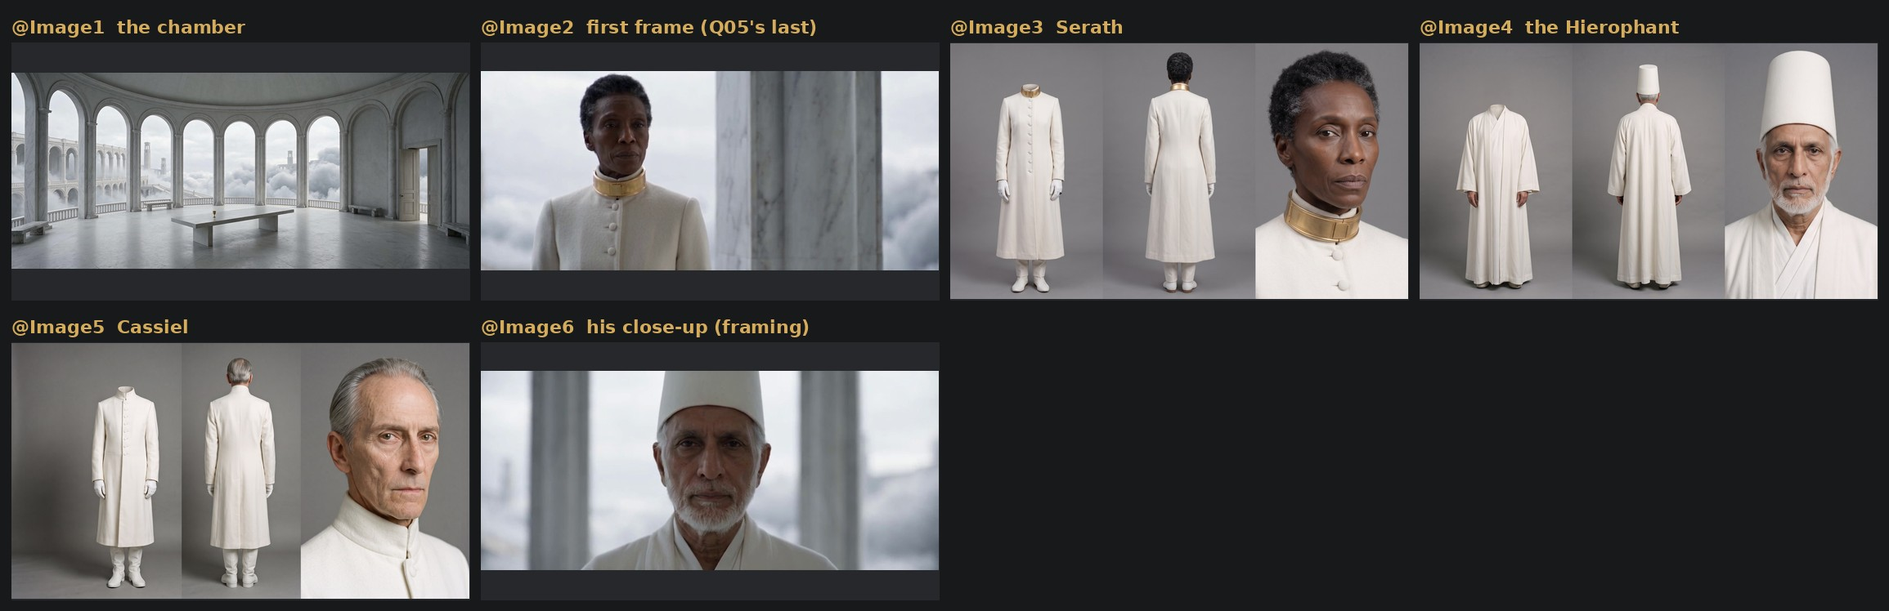
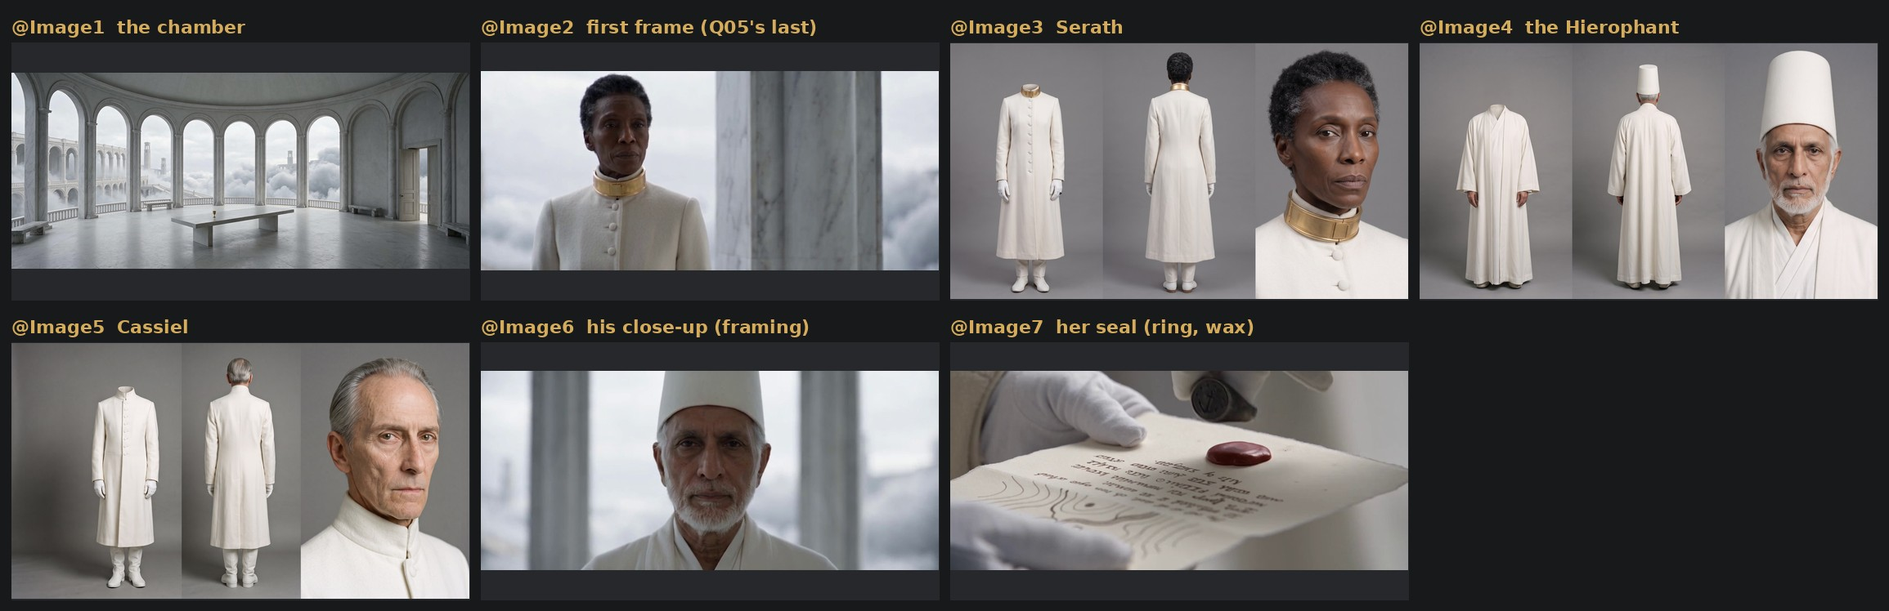
The Weight of Heaven: Q06 settled to fit what has been generated
The author's word on the two open choices: "Do what fit what have been
generated". The Hierophant says "Remember who raised you" facing forward, as
in Q04 and Q05; the seal is Serath's own ring in red wax, as at the wedding,
with the first seal's frame attached as its reference. Seven images, 22 s.
Nothing generated; waiting for the author's go.

Claude-Session: https://claude.ai/code/session_01Ufmw2p65L6HH4goCKZmAJH

Changed region(s): [[0.4987, 0.5842, 0.7481, 0.9532], [0.4987, 0.5227, 0.6857, 0.5535]]

diff --git a/ai-film/the-weight-of-heaven/tools/board_q06.py b/ai-film/the-weight-of-heaven/tools/board_q06.py
@@ -2,14 +2,14 @@
 """Q06 (the council: "Until the bell"; Cassiel; the seal; she goes) storyboard and its opening frame. Nothing generated.
 
 Drawn over the film's own frames wherever the film already has the set-up: Q05 take 1's last frame (where Q06 opens,
-Serath's close shot) and its close-up of the Hierophant. The door with Cassiel is new: his sheet and Serath's over the
-council chamber reference, staging sketches. The seal is a stand-in: the film's earlier seal shot, to show the kind of
-insert meant; the seal here is the Council's, not Serath's ring.
+Serath's close shot), its close-up of the Hierophant, and the film's first seal (Q02A take 2), whose ring and wax come
+back here. The door with Cassiel is new: his sheet and Serath's over the council chamber reference, staging sketches.
 
     /root/leonxlnx/earshot/.venv/bin/python tools/board_q06.py
 
 Writes
   refs/frames/Q06_open_serath.jpg   Q05 take 1's last frame, at twice its size: shot 1 opens on it (sent as a reference)
+  refs/frames/Q06_setup_seal.jpg    Q02A take 2 frame 278, at twice its size: her ring over smooth wax (sent as a reference)
   design/boards/Q06_board.jpg       the storyboard, seven frames (six shots)
 """
 import importlib.util, os, subprocess
@@ -54,7 +54,7 @@ def sheet(cells, path):
     d = ImageDraw.Draw(S)
     d.text((pad, 14), 'THE WEIGHT OF HEAVEN  ·  Q06  ·  THE COUNCIL: UNTIL THE BELL  ·  storyboard  ·  22 s, six shots', fill=GOLD, font=f0)
     d.text((pad, 48), 'Frames 1, 3 and 4 are the film\'s own (Q05 take 1): the same set-ups come back. The door is new: sheets over the chamber '
-                      'reference, staging sketches. Frame 5 is a stand-in from the film\'s first seal.', fill=PAPER, font=f2)
+                      'reference, staging sketches. Frame 5 is the film\'s own first seal (Q02A take 2): the same ring and wax return.', fill=PAPER, font=f2)
     for k, (im, title, text) in enumerate(cells):
         x = pad + (k % 2) * (W + gap); y = hd + (k // 2) * (H + cap)
         S.paste(im.convert('RGB'), (x, y))
@@ -76,9 +76,8 @@ def main():
     img(last).resize((W * 2, H * 2), Image.LANCZOS).save(P('refs/frames/Q06_open_serath.jpg'), quality=95)
     print('wrote refs/frames/Q06_open_serath.jpg')
     hier = frame('out/takes/Q05_t1.mp4', 250)
-    seal = frame('out/edits/I_bell_v8.mp4', 700)
-    band = int(round(W / 2.39 / 2) * 2); top = (H - band) // 2
-    seal = arr(img(seal[top:top + band]).resize((W, H), Image.LANCZOS))            # the film's frame without its matte
+    seal = frame('out/takes/Q02A_t2.mp4', 278)                                    # the film's first seal: her ring over smooth wax
+    img(seal).resize((W * 2, H * 2), Image.LANCZOS).save(P('refs/frames/Q06_setup_seal.jpg'), quality=95)
 
     c1 = img(last); d = ImageDraw.Draw(c1)
     note(d, (36, 34), 'where Q05 ended: she is waiting for her answer')
@@ -92,18 +91,17 @@ def main():
     arrow(d, (330, 300), (470, 300), w=3)
 
     c3 = img(hier); d = ImageDraw.Draw(c3)
-    note(d, (36, 34), 'slowly, for the first time, he turns his head to her')
-    arrow(d, (430, 120), (300, 120), w=4)
+    note(d, (36, 34), 'he faces forward, as in Q05: the warmth is in his face and voice')
     note(d, (36, 380), 'warmly:  "Remember who raised you."')
 
     c4 = img(last); d = ImageDraw.Draw(c4)
     note(d, (36, 34), 'she takes it as a blessing: one small bow of the head')
-    arrow(d, (520, 250), (760, 250), w=4); note(d, (520, 280), 'then she goes, out of the frame')
+    arrow(d, (520, 250), (760, 250), w=4); note(d, (520, 280), 'then she goes to the table, out of the frame')
     note(d, (36, 380), 'no words. We cut on her movement')
 
     c5 = img(seal); d = ImageDraw.Draw(c5)
-    note(d, (36, 34), 'STAND-IN (the film\'s first seal): the kind of insert, not this seal')
-    note(d, (36, 380), 'the order is written; the Council\'s seal goes into red wax')
+    note(d, (36, 34), 'the film\'s own first seal: the same ring and red wax come back')
+    note(d, (36, 380), 'here the page lies on the table: she seals the order herself')
 
     c6 = img(door(1160, 318, 1790, 330, serath=1600, serath_h=372)); d = ImageDraw.Draw(c6)
     note(d, (36, 34), 'the same view of the door, closer. She crosses to it')
@@ -118,14 +116,14 @@ def main():
          'Opens exactly on Q05\'s last frame (sent as a reference). She is waiting. His answer comes from off-screen: "Until the bell." Her lips stay closed; her shoulders ease a little.'),
         (c2, 'SHOT 2 · 2.6–7.6 s · Cassiel at the door · 40 mm, a slow push in',
          'New set-up. One still figure on a third, framed by the door, the room empty where he faces, while the Hierophant\'s voice names him: "If it finds the Weir standing, the fleet is Vice Admiral Cassiel\'s." Cassiel never speaks in the film.'),
-        (c3, 'SHOT 3 · 7.6–11.6 s · the Hierophant · the same close-up as in Q04 and Q05',
-         'His only words on screen, and the only time he looks at her. Frontal and centred, as Villeneuve holds the ones in authority; then one slow turn of the head to her, and warmly: "Remember who raised you."'),
-        (c4, 'SHOT 4 · 11.6–14.4 s · Serath, the same close shot',
-         'She does not hear it as a warning. She bows her head once, as an officer does, turns and walks out of the frame toward the door. The cut to the seal comes on her movement.'),
-        (c5, 'SHOT 5 · 14.4–16.6 s · insert: the seal',
-         'Hands only, as when she sealed the lifting warrant at the wedding. A gloved hand presses the Council\'s seal into red wax at the foot of the written order and lifts it away. The order is real now.'),
-        (c6, 'SHOT 6 · 16.6–22 s · the door, the same view as shot 2, closer',
-         'Serath is crossing to the door, her back to us. Cassiel has been watching the table, where the order was sealed; his eyes come to her and, as she reaches him, he inclines his head, perfectly courteous.'),
+        (c3, 'SHOT 3 · 7.6–11.2 s · the Hierophant · the same close-up as in Q04 and Q05',
+         'His only words on screen. Frontal, centred and still, as in Q05 and as Villeneuve holds the ones in authority. His face warms, and he says it kindly: "Remember who raised you."'),
+        (c4, 'SHOT 4 · 11.2–14.0 s · Serath, the same close shot',
+         'She does not hear it as a warning. She bows her head once, as an officer does, turns and walks out of the frame toward the table. The cut to the seal comes on her movement.'),
+        (c5, 'SHOT 5 · 14.0–16.2 s · insert: her seal',
+         'As at the wedding: her gloved hand, her ring, red wax. She presses her seal into the wax at the foot of the written order and lifts it away clean. She has sealed this one as she seals every other.'),
+        (c6, 'SHOT 6 · 16.2–22 s · the door, the same view as shot 2, closer',
+         'Serath is crossing to the door, her back to us. Cassiel has been watching the table, where she sealed it; his eyes come to her and, as she reaches him, he inclines his head, perfectly courteous.'),
         (c7, 'SHOT 6 · she goes',
          'She passes without a look and walks away from us into the brightness of the doorway. He straightens, hands still behind his back, and faces the room. The last frame: Cassiel alone by the door.'),
     ]

diff --git a/ai-film/the-weight-of-heaven/prompts/Q06.md b/ai-film/the-weight-of-heaven/prompts/Q06.md
@@ -1,6 +1,6 @@
 # Q06 — The council: "Until the bell" · Cassiel · the seal · she goes (B11b)
 
-**v1 · images only, the author's AUTEUR VIDEO PROMPT as it will be sent.** Seedance 2.5 on fal, task `reference`, 21:9, 480p, sound on. Scene 4 of the screenplay, line L10 and the action after it (A30). **Status: package built on the author's word (26 November): "Now let's proceed to next scene"; revised after a study of Villeneuve's frames (the author asked for it) and an independent review (`edit/reviews/Q06_v1_prompt_review.md`). Nothing generated. Waiting for the author's go.**
+**v1 · images only, the author's AUTEUR VIDEO PROMPT as it will be sent.** Seedance 2.5 on fal, task `reference`, 21:9, 480p, sound on. Scene 4 of the screenplay, line L10 and the action after it (A30). **Status: package built on the author's word (26 November): "Now let's proceed to next scene"; revised after a study of Villeneuve's frames (the author asked for it) and an independent review (`edit/reviews/Q06_v1_prompt_review.md`). The two open choices settled by the author ("Do what fit what have been generated"): the Hierophant faces forward, as in Q05, and the seal is Serath's own ring in red wax, as at the wedding. Nothing generated. Waiting for the author's go.**
 
 Q06 follows Q05 directly and opens on its last frame. It ends the council scene; Q07 is beneath Orison.
 
@@ -10,7 +10,7 @@ Q06 follows Q05 directly and opens on its last frame. It ends the council scene;
 | --- | --- |
 | The prompt, exactly as it will be sent | `prompts/sent/Q06_v1.txt` |
 | Storyboard, seven frames | `design/boards/Q06_board.jpg` (`tools/board_q06.py`) |
-| The six references, in attach order | `design/boards/Q06_refs.jpg` |
+| The seven references, in attach order | `design/boards/Q06_refs.jpg` |
 | Shot 1's first frame (Q05 take 1's last frame) | `refs/frames/Q06_open_serath.jpg` |
 
 ## The lines, as approved (26 November)
@@ -27,20 +27,20 @@ Q06 follows Q05 directly and opens on its last frame. It ends the council scene;
 | --- | --- | --- | --- |
 | 1 | 0–2.6 s | Serath's close shot, the frame Q05 ended on. She is waiting; his answer comes | the Hierophant, off-screen: "Until the bell." |
 | 2 | 2.6–7.6 s | New: Cassiel on the right third, in front of the swung-back leaf of the door, hands behind his back, still; the room empty where he faces; a slow push toward him | the Hierophant, off-screen: "If it finds the Weir standing, the fleet is Vice Admiral Cassiel's." |
-| 3 | 7.6–11.6 s | The Hierophant, the same close-up as in Q04 and Q05. Half a second in, his head turns slowly to her, an eighth of a turn; his face warms | "Remember who raised you." |
-| 4 | 11.6–14.4 s | Serath, the same close shot. She bows her head once, turns and walks out of the frame; the cut comes on her movement | none |
-| 5 | 14.4–16.6 s | New: insert, one gloved hand and the page. The Council's seal goes into smooth red wax and lifts away clean | none |
-| 6 | 16.6–22 s | The door again, closer. Cassiel is watching the table; Serath, her back to us, crosses to the door on his right; his eyes come to her and he inclines his head as she passes; she goes into the brightness of the doorway; he faces the room and holds | none |
+| 3 | 7.6–11.2 s | The Hierophant, the same close-up as in Q04 and Q05, facing forward and still. His face warms | "Remember who raised you." |
+| 4 | 11.2–14.0 s | Serath, the same close shot. She bows her head once, turns and walks out of the frame toward the table; the cut comes on her movement | none |
+| 5 | 14.0–16.2 s | Insert, as the film's first seal: her gloved right hand presses her ring into smooth red wax at the foot of the written order and lifts away clean | none |
+| 6 | 16.2–22 s | The door again, closer. Cassiel is watching the table; Serath, her back to us, crosses to the door on his right; his eyes come to her and he inclines his head as she passes; she goes into the brightness of the doorway; he faces the room and holds | none |
 
 ## Why it is staged this way
 
 - **His words fall on the people they dispose of.** "Until the bell." is heard on Serath, who asked. The sentence that takes her command away is heard on the man who will get it. The film has done this twice already ("Sarn Vale." on Serath's back, "Heaven has done your arithmetic for you" on her face), and the Dune scripts give the hard word to the listener.
 - **Cassiel gets a face when he gets a name.** He has only been a figure by the door in the wide. He never speaks in the film and matters at the end of it; this is where the audience is told who he is. Held wide and still, as Villeneuve holds a figure; Cameron's rule that a look or a name is answered by what it points at.
-- **The Hierophant is seen once, for the line that carries the film.** "Remember who raised you" is his only line on screen here, and the only time in the scene that he looks at Serath: one slow turn of the head. In Q05 he answered her facing forward. It is said as affection, which is why she takes it as a blessing. A choice for the author: he could say this one facing forward too.
+- **The Hierophant is seen once, for the line that carries the film, and he faces forward.** "Remember who raised you" is his only line on screen here. He says it as he has said everything in the scene: frontal, centred, his head still (the shot list's own note: "warm, frontal"). The warmth is in his face and his voice. The draft had him turn his head to her; the author chose what fits what has been generated (26 November), and in Q04 and Q05 he never turns.
 - **Four of nineteen words are on a visible mouth.** In Q04 he spoke five words in under a second on screen, and the author would not have him slowed afterwards. Off-screen words can also be re-timed or replaced in sound without touching a face.
 - **She does not hear the warning.** One bow of the head, an officer's, and she goes. No reaction beyond that.
-- **The seal, then the bow.** The screenplay: "Cassiel waits for the seal before he inclines his head to her, perfectly courteous." An insert makes the cause visible, and repeats the film's first seal (her ring into the wax at the wedding). The last shot opens with his eyes on the table, where it was sealed, before they come to her. Here it is the Council's seal in a clerk's hand, not her ring. A choice for the author: the screenplay does not say whose seal it is.
-- **Two set-ups come back** (Serath's close shot, the Hierophant's close-up) and one new one is used twice (the door), so there are three views to keep consistent and one insert.
+- **Her seal, then the bow.** The screenplay: "Cassiel waits for the seal before he inclines his head to her, perfectly courteous." The seal is Serath's own: her ring, her glove, red wax, as at the wedding (`PROP_P03`: "on every warrant"). The draft had the Council's seal in a clerk's hand; the author chose what fits what has been generated. It also keeps the film's spine: she seals this order as she sealed the others, and Karst will say "You sealed them." The last shot opens with Cassiel's eyes on the table, where she sealed it, before they come to her.
+- **Three set-ups come back** (Serath's close shot, the Hierophant's close-up, the seal) and one new one is used twice (the door).
 
 ## What Villeneuve's frames do, and where Q06 uses it
 
@@ -70,12 +70,12 @@ Not done for the first draft; done on the author's question ("Did you search sti
 
 | Finding | Change |
 | --- | --- |
-| Shot 3 repeated the open pause that cost Q05 2.9 s of silence ("He lets a moment pass"), and a small turn with the eyes far to one side reads as sly, not warm | No open pause: "Half a second after the cut his head begins to turn ... by 9.0 s it has made an eighth of a turn"; the warmth written as his brow and eyes, not as a simile with two more people in it |
+| Shot 3 repeated the open pause that cost Q05 2.9 s of silence ("He lets a moment pass"), and a small turn with the eyes far to one side reads as sly, not warm | No open pause and, after the author's choice, no turn: his face warms from the first frame, "At 8.2 s he breathes in once, then says it"; the warmth written as his brow and eyes, not as a simile with two more people in it; the shot is 0.4 s shorter and the last shot has it |
 | Both door shots look at a wall with no tone given; the one earlier shot toward a wall came back dark slate (Q04 shot 5). The door was left to the model | The wall is "pale grey-white marble, as pale as the columns and the floor"; the door as the reference has it: left leaf swung back against the wall, right leaf shut, a bay of plain wall between the last arch and the door; the same words in both shots |
 | Shot 6: her entrance crossed in front of Cassiel, one white coat over another, at twice a walking pace | She is in the frame from its first frame, on its right half, seen from behind, and stays to the right of him |
 | Shot 4 was overfull, ended on a frame with nothing in focus, and the lock said she keeps her place | The bow is timed, the empty-arch hold is gone, the cut comes on her movement; the lock says where she leaves from |
 | The wording that kept a mouth shut in Q05 had been thinned; "breathes slowly", "as a sentry does" and "as his own name is spoken" each invite the wrong thing | Shot 1: "a man's, from off-screen to the right, where she is looking"; shot 2: "an old man's, from off-screen to the left, where he is looking"; the three phrases gone |
-| The seal had no "before" (the film's first seal came back stamped before the press, with wax on the glove) | The wax "smooth and plain" before; the press and the lift timed; "All the wax stays on the page" after |
+| The seal had no "before" (the film's first seal, in its first take, came back stamped before the press, with wax on the glove) | The wax "smooth and plain" before; the press and the lift timed; "All the wax stays on the page" and "The glove is white and clean" after. The reference frame is from the take that got it right: the ring over smooth wax |
 | The voice was asked to sound far away for 15 of its 19 words; a roomy voice cannot be dried afterwards | "Close and clear in every shot", as in Q05; distance is added in the mix |
 | "Cassiel waits for the seal" was not on the screen: his bow was cued only by her passing | The last shot opens with his eyes on the table, where the order was sealed; they come to her, then he bows. And a 22nd second for the last hold (the last shot is the one most often squeezed) |
 | Checked and left: every left and right; the three lines; the pace (3.5 to 5 words a second measured in Q05); the template; the six images | |
@@ -90,6 +90,7 @@ Not done for the first draft; done on the author's question ("Did you search sti
 | @Image 4 | `refs/CHAR_C05_hierophant.jpg` | The Hierophant |
 | @Image 5 | `refs/CHAR_C04_cassiel.jpg` | Cassiel |
 | @Image 6 | `refs/frames/Q05_setup_hierophant.jpg` | His close-up as it stands in Q04 (frame 322): framing, light, background |
+| @Image 7 | `refs/frames/Q06_setup_seal.jpg` | The film's first seal (Q02A take 2, frame 278): her ring, her glove, the smooth red wax, the closeness of the view |
 
 No video and no audio reference. No new reference image has to be made.
 
@@ -104,7 +105,7 @@ No video and no audio reference. No new reference image has to be made.
 python3 tools/fal_run.py --name Q06_t1 --prompt prompts/sent/Q06_v1.txt \
   --image refs/ENV_E02_council-chamber.jpg --image refs/frames/Q06_open_serath.jpg \
   --image refs/CHAR_C01_serath.jpg --image refs/CHAR_C05_hierophant.jpg --image refs/CHAR_C04_cassiel.jpg \
-  --image refs/frames/Q05_setup_hierophant.jpg \
+  --image refs/frames/Q05_setup_hierophant.jpg --image refs/frames/Q06_setup_seal.jpg \
   --param task=reference --param duration=22 --param aspect_ratio=21:9 --param draft=true \
   --param generate_audio=true --param return_last_frame=false
 ```
@@ -120,8 +121,7 @@ python3 tools/fal_run.py --name Q06_t1 --prompt prompts/sent/Q06_v1.txt \
 | The door set-up differs between shots 2 and 6 | Named as one view in each shot and in the continuity lock; the door is in the chamber reference |
 | Serath hides Cassiel as she passes | She is on the right half of the frame from its first frame and stays to the right of him |
 | The wall by the door comes back dark, as the wall behind the Engineer did | Its tone is written in the lock and in both shots; if it does, the author has already refused a repair of that kind once |
-| The seal reads as Serath's (a gloved hand, red wax, as at the wedding) | A plain white sleeve, a bronze seal with a handle, not a ring; for the author to judge on the board |
-| The Hierophant's head turn changes his close-up | An eighth of a turn, timed, as the Chancellor's in Q05, which held |
+| The seal frame brings the wedding's page with it (a drawing on it, a second hand holding it) | "From @Image 7 take the ring, the glove, the red wax and the closeness of the view only; here the page lies flat on the table and one hand alone is in the frame" |
 | Handwriting comes back as nonsense letters in focus | "too soft to read"; the focus is on the wax |
 
 ## Takes

diff --git a/ai-film/the-weight-of-heaven/design/SHOTS.md b/ai-film/the-weight-of-heaven/design/SHOTS.md
@@ -35,7 +35,7 @@ Split as *My Name Is Oren* was (`design/SHOTS.md` on branch `ccr-a1ca9fd6-0m96vq
 | **II. The council (held)** | | | | | | |
 | Q04 | B08–B09 Three days later · Six hundred feet | 24 s, 6 shots | 0:40 | L03–L05 (trimmed, approved) | Images only: ENV_E02, first frame `refs/frames/Q04_open_cup.jpg`, CHAR_C06, CHAR_C08, CHAR_C05, CHAR_C01 | **t1 generated 26 November on the author's go; mended free and cut into the film on the author's word (`out/review/film_v10.mp4`, `edit/film_v10.md`)** (all six shots and all three lines came back as asked; the wine's trembling is too faint and the model added a low drone, both mendable free). v1 package built and revised after three checks (`prompts/Q04.md`, `prompts/sent/Q04_v1.txt`, `design/boards/Q04_board.jpg`). Opens on the cup trembling, built from the very frames of the still cup that ends movement I (a high three-quarter view, not top-down). "THREE DAYS LATER." in post. The Engineer in the middle of the room with nothing to lean on, first with his back to us; the Hierophant frontal, from the collar up; the Engineer stops and looks at Serath; "Sarn Vale." is heard over her back and her head turns, where Q05 opens. About $5.29. |
 | Q05 | B10, B11a The arithmetic · "Give me until the evening bell" | 23 s, 6 shots | 1:00 | L06–L09 (trimmed, approved) | Images only: ENV_E02, first frame `refs/frames/Q05_open_serath.jpg` (Q04's last frame), CHAR_C01, CHAR_C05, CHAR_C06, and Q04's two close-ups as set-up frames | **t1 generated 26 November on the author's go; chosen by the author with two changes and cut into the film (`out/review/film_v14.mp4`, `edit/film_v14.md`)** (all six lines and shots came back as asked; the Hierophant's shot has a long silent head to trim; the two women's voices are close in pitch) (`prompts/Q05.md`, `prompts/sent/Q05_v1.txt`, `design/boards/Q05_board.jpg`). Serath turns to the room and speaks for the first time; the Hierophant answers facing forward, and his kindness is heard on her face; the Chancellor looks at her only to give the order; Serath waits, then asks for time. Ends on her close shot, where Q06 opens. About $5.07. |
-| Q06 | B11b Until the bell | 22 s, 6 shots | 1:16 | L10 (trimmed, approved) | Images only: ENV_E02, first frame `refs/frames/Q06_open_serath.jpg` (Q05's last frame), CHAR_C01, CHAR_C05, CHAR_C04, and the Hierophant's close-up as a set-up frame | **v1 package built 26 November; nothing generated; waiting for the author** (`prompts/Q06.md`). His first two sentences are heard off-screen, over Serath and then over Cassiel at the door; "Remember who raised you" is his only line on screen: warm, with one slow turn of the head, the only time he looks at her. She bows her head and goes. The seal (insert), then Cassiel inclines his head as she passes. |
+| Q06 | B11b Until the bell | 22 s, 6 shots | 1:16 | L10 (trimmed, approved) | Images only: ENV_E02, first frame `refs/frames/Q06_open_serath.jpg` (Q05's last frame), CHAR_C01, CHAR_C05, CHAR_C04, the Hierophant's close-up and the film's first seal as set-up frames | **v1 package built 26 November; nothing generated; waiting for the author's go** (`prompts/Q06.md`). His first two sentences are heard off-screen, over Serath and then over Cassiel at the door; "Remember who raised you" is his only line on screen: warm, facing forward as in Q05. She bows her head, seals the order with her own ring (insert, as at the wedding) and goes; Cassiel, who watched the seal, inclines his head as she passes. |
 | **III. Below (montage)** | | | | | | |
 | Q07 | B12 The underside | ≈ 12 s of shots | 1:30 | none | ENV_E04, ENV_E05, ENV_E06, ENV_E07, SHIP_V04, CHAR_C01 | From the cutter's height as it drops out of the cloud (E04 was drawn from the ground: name the height). The bird drops like a stone under an open gate. The underside sits two stops under the band of day. |
 | Q08 | B13–B15 Her own weight · spears · "We stopped carrying it" | 18 s | 1:42 | L13 | ENV_E08, CHAR_C01, CHAR_S03, CHAR_C03, CHAR_C09, CROWD_K03, CHAR_C02, SHIP_V04 | Her knees almost go; the aide falls outright. The farmer's hand on the bowl at his belt (from here on). Karst in the door's shadow; the song cuts on his line. |

diff --git a/ai-film/the-weight-of-heaven/design/DECISIONS.md b/ai-film/the-weight-of-heaven/design/DECISIONS.md
@@ -78,7 +78,7 @@ Settled with the author. Started 2026-11-25. Sources: the screenplay, third draf
 | Film cut v14: Q05 joined on | The author (26 November), after comparing the take as generated with a copy carrying two changes: "Q05_t1_two_changes.mp4... Okay I prefer it merge it". Q05 take 1 with the Hierophant's silent start trimmed and the drone out of the gaps, voices and faces untouched, joined to Q04 as one continuous shot of Serath at her arch (registered onto Q04's framing). `out/review/film_v14.mp4`, 105.0 s; record `edit/film_v14.md`. |
 | Cloud movement by editing: the test | The author (26 November): "Can you make the cloud to look like it's moving in edit... It looks like it's a painting instead of real cloud". Tested on one shot (Q04 take 1, Serath at her arch): the sky and the top of the cloud bank, frozen in the take, are given a slow drift to the right with the take's own low mist; stone, Serath and the cloud that already moves are untouched. `out/review/cloud_test_before.mp4`, `out/review/cloud_test_after.mp4`; tool `tools/cloud_drift.py`. |
 | Film cut v15: the cloud at Serath's arch moves | The author (26 November), on the test: "I love it... So merge everything together". The frozen sky and cloud bank drift through the whole shot (Q04's last and Q05's first) on one clock; in Q05's half the cloud right of the right column carries on leftward instead of freezing. Everything else is cut v14, frame for frame; sound unchanged. `out/review/film_v15.mp4`, 105.0 s; record `edit/film_v15.md`. The wide of the chamber and Serath's close shots (still cloud, but a slow push-in) are not done: a separate test first. |
-| Q06 package (the end of the council) | The author (26 November): "Now let's proceed to next scene". Built for approval, nothing generated: 22 s, six shots, six images, about $4.85; revised after a study of Villeneuve's frames on StillsLab (the author asked whether it had been done; it had not) and an independent review. `prompts/Q06.md`, `prompts/sent/Q06_v1.txt`, `design/boards/Q06_board.jpg`. Two choices put to the author: the Hierophant turns his head to Serath for "Remember who raised you" (in Q05 he faced forward), and the seal is the Council's in a clerk's hand (the screenplay does not say whose). |
+| Q06 package (the end of the council) | The author (26 November): "Now let's proceed to next scene". Built for approval, nothing generated: 22 s, six shots, six images, about $4.85; revised after a study of Villeneuve's frames on StillsLab (the author asked whether it had been done; it had not) and an independent review. `prompts/Q06.md`, `prompts/sent/Q06_v1.txt`, `design/boards/Q06_board.jpg`. Two choices were put to the author (does the Hierophant turn his head to her; whose seal is it), and settled the same day: "Do what fit what have been generated". So he faces forward, as in Q04 and Q05, and the seal is Serath's own ring in red wax, as at the wedding. |
 | Video model (proposed) | Seedance 2.5 on fal, 21:9, as for Oren: drafts at 480p, finals from the chosen draft; at Oren's rate (about $0.22 a second) one final pass of all 26 generations is about $100. Awaiting the author. |
 | Branch | This session works on `ccr-0244e8fe-7z8rbw` (the environment's required branch) rather than a branch named after the slug; it merges to `main` only when the author signs the film off. |
 
